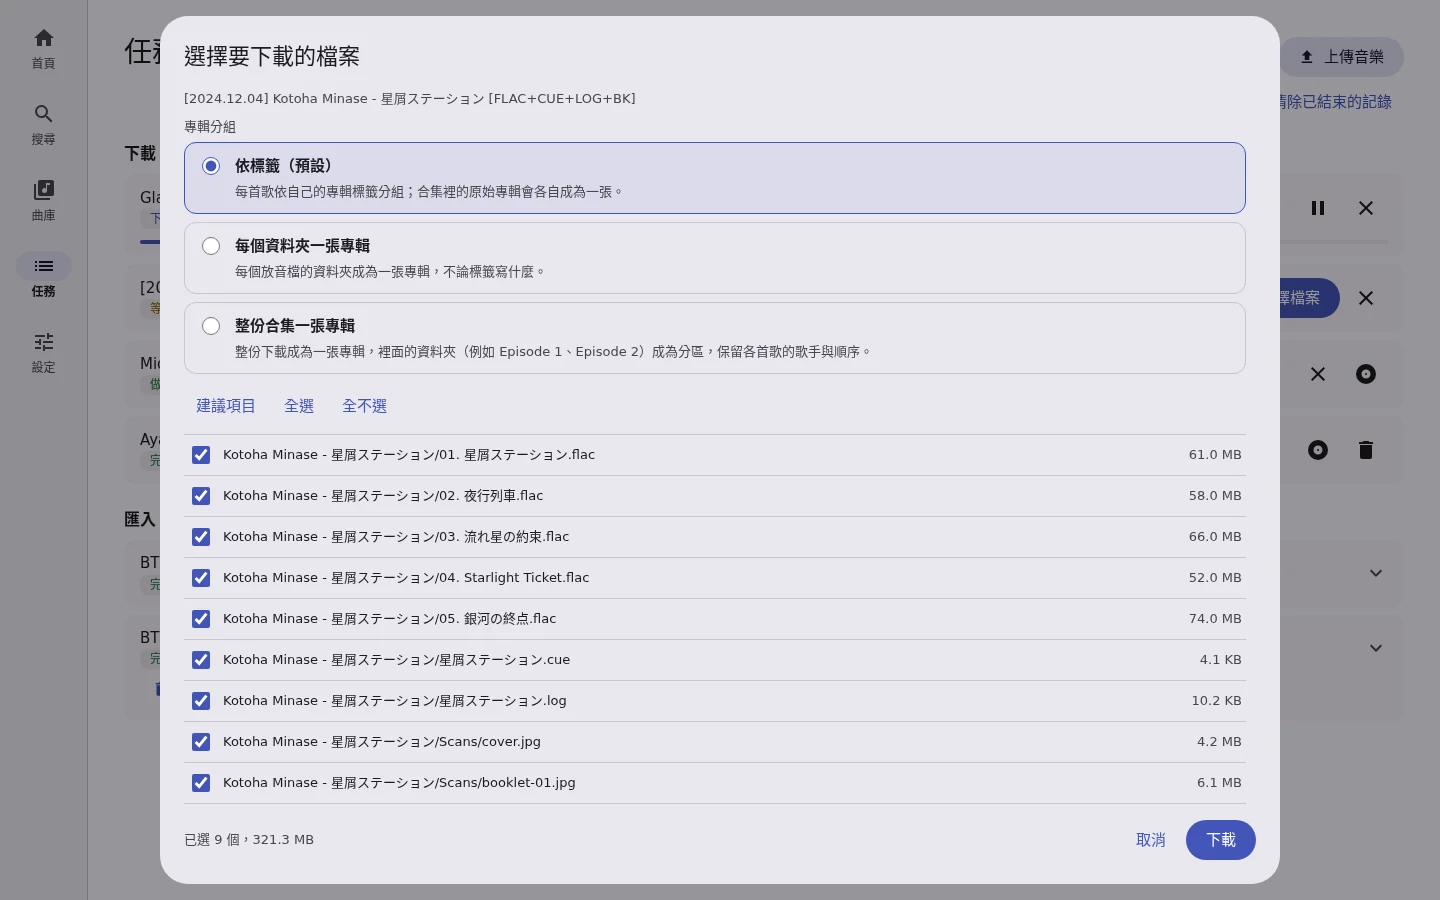
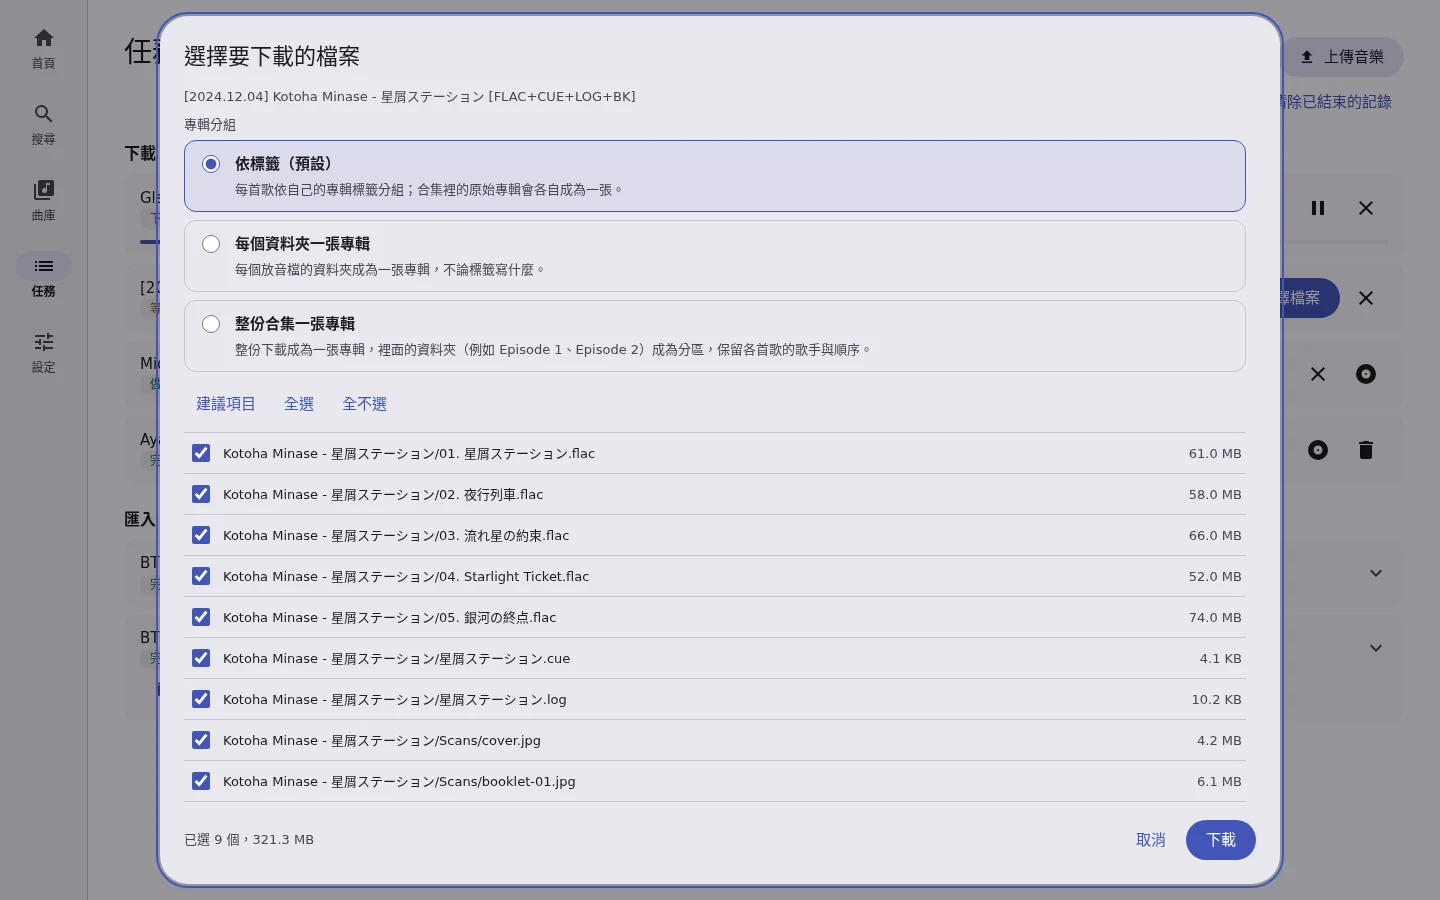
README: a Traditional Chinese version, and screenshots of today's pages
README.zh-TW.md says the same as README.md in Traditional Chinese, the
interface's language; each links to the other at its top.

The screenshots are taken again from the made-up demo library on the
current pages: the album page now shows its work (with the opening
theme marked on its song) and its Bangumi entry and collection, which
are made up too, like the rest of the demo.

diff --git a/README.zh-TW.md b/README.zh-TW.md
@@ -1,0 +1,118 @@
+[English](README.md) | **繁體中文**
+
+# Kanade（奏）
+
+私人、自架的音樂庫：透過 BitTorrent 找到資源、選好檔案、下載、整理，存進你自己的 Google Drive，再從電腦或手機的瀏覽器播放（Android App 之後才做）。介面是繁體中文。
+
+![首頁：繼續播放、最近播放、未聽完的廣播劇](docs/images/home.webp)
+
+## 功能
+
+- **取得音樂**：透過 aria2 下載磁力連結、`.torrent` 檔與 RSS 訂閱（可設規則、自動下載），也可以直接下載音檔或 zip 的 HTTP/HTTPS 連結。種子的檔案由你挑選；下載比伺服器的暫存空間大時分批進行，每批匯入並清掉後才下載下一批。做種依分享率或時間停止。
+- **匯入與整理**：讀取標籤（並判斷文字編碼），依 CUE 切割整軌映像、把其他無損格式轉成 FLAC（FFmpeg），CUE 與 log 檔跟著專輯保存，標籤沒寫專輯時以資料夾為一張專輯；整份下載也可以變成一張專輯，每個資料夾一個分區。另外有 MusicBrainz 查詢、貼上 VGMdb 頁面讀取資料、單張或多張專輯一起編輯、分類、關聯專輯所屬的作品（動畫、遊戲、書籍，以 [Bangumi](https://bgm.tv) 的資料為準，並標註每首歌的用途：片頭曲、片尾曲、插曲…）、專輯自己的 Bangumi 條目（連結 Bangumi 帳號後，可以在專輯頁管理你的收藏：狀態、評分、標籤、吐槽），以及每一筆修改都能撤回的修改紀錄。
+- **儲存**：每個檔案都存進你自己的 Google Drive，上傳後以 SHA-256 核對；丟進 Drive 收件匣資料夾的檔案會自動匯入。伺服器只保留播放快取，小 VPS 就夠用。
+- **播放**：播放佇列、隨機、重複、全曲庫隨機或自動接續播放、廣播劇從上次停下的地方繼續、同步歌詞（來自檔案、LRC，或從 LRCLIB 找）、書籤、睡眠定時、鎖定畫面控制，以及把正在聽的歌顯示成你的 Discord 狀態（「正在聽 Kanade」）：連結 Discord 帳號後由伺服器回報，電腦和手機都不用另外安裝程式。
+- **收藏**：我的最愛、歌單、依規則挑歌的智慧歌單（分類、歌手、播放次數、上次播放…）。
+- **我的聆聽**：每天實際聽了多久的年度熱圖、任意期間的排行與趨勢，可匯出 CSV 或 JSON。
+- **登入**：密碼或 passkey；單一個 Go 執行檔，以 1.5 GB 記憶體的 VPS 為準設計。
+
+| | |
+|---|---|
+| ![專輯頁：音質、分類、作品與 Bangumi 收藏](docs/images/album.webp) | ![正在播放與同步歌詞（深色主題）](docs/images/now-playing.webp) |
+| ![我的聆聽：熱圖與期間統計](docs/images/stats.webp) | ![智慧歌單與預覽](docs/images/smart-playlist.webp) |
+| ![任務：下載、做種與匯入](docs/images/tasks.webp) | ![選擇要下載的檔案](docs/images/downloads.webp) |
+
+![手機：首頁、正在播放、專輯（玫瑰色深色主題）](docs/images/phone.webp)
+
+截圖用的是虛構的示範曲庫：專輯、歌手、歌詞、封面和作品都是為了截圖編出來的。
+
+## 安裝
+
+在 Linux 伺服器（amd64 或 arm64）上以 root 執行：
+
+```bash
+curl -fsSL https://raw.githubusercontent.com/HHim8826/kanade/main/scripts/kanade.sh -o kanade.sh && sudo bash kanade.sh
+```
+
+連 GitHub 很慢的地方（中國大陸），在網址前面加上代理，例如 `https://ghproxy.net/https://raw.githubusercontent.com/…`；腳本下載其他檔案時會詢問要不要用同一個代理。
+
+腳本會：
+
+- 把適合這台機器的版本裝到 `/opt/kanade`（資料在 `/opt/kanade/data`）；
+- 以系統帳號 `kanade` 在 systemd、OpenRC 或 SysV init 下執行，並設定開機啟動。這些都沒有時（例如容器裡），就在背景執行，有 cron 時用 `@reboot` 開機啟動；
+- 經你同意後從系統套件安裝 aria2 與 FFmpeg。系統套件裡都沒有時（RHEL 系列、Amazon Linux），改用 Kanade 開發時用的靜態版本，放在 `/opt/kanade/tools`；FFmpeg 約 150 MB；
+- 建立一個隨機密碼的管理員帳號並顯示密碼。
+
+之後執行 `sudo kanade-manager` 會開啟同一個選單：
+
+| 指令 | |
+|---|---|
+| `kanade-manager install` / `update` / `uninstall` | 更新時會以 `SHA256SUMS` 核對下載的檔案、先備份資料庫，新版啟動不了就退回舊版；即使 Kanade 已是最新，也會把 `kanade-manager` 本身換成該版的腳本（同樣核對）。解除安裝會保留資料，除非你輸入 `DELETE`。 |
+| `kanade-manager status` / `start` / `stop` / `restart` / `log [-f]` | status 也會顯示是否開機啟動。 |
+| `kanade-manager autostart [on\|off]` | 是否開機啟動（依機器使用 systemd、OpenRC、SysV 或 cron）；不加參數時顯示目前設定並詢問。 |
+| `kanade-manager password` | 重設密碼（隨機或自訂），該帳號的所有登入都會結束。 |
+| `kanade-manager config` | 修改公開網址、監聽位址，以及前面的代理（Cloudflare，或同一台機器上的 Nginx、Caddy）：只相信這裡指定的代理所轉送的用戶端位址，登入節流依這個位址計算。 |
+| `kanade-manager backup` / `restore` | 備份放在 `data/backups/`；還原前會先備份目前的資料庫。連上 Drive 後，伺服器每天也會把資料庫複製到 Drive 的 `Kanade/backups`（保留最近 14 份）；要還原其中一份，下載到 `data/backups/` 再執行 `restore`。更新前自動做的備份保留最近 5 份。 |
+| `kanade-manager tools` | 之後再安裝 aria2 與 FFmpeg（安裝時跳過，或系統套件裡沒有時）。 |
+
+不詢問的安裝（自動化用）：`sudo env KANADE_YES=1 KANADE_PUBLIC_URL=https://music.example.com KANADE_TRUSTED_PROXY=cloudflare bash kanade.sh install`；其他設定（例如 `KANADE_INIT=systemd|openrc|sysv|none`）列在 `scripts/kanade.sh` 的開頭。
+
+**連線 Google Drive。** Kanade 用你自己在 Google Cloud 建立的 OAuth 用戶端存取 Drive；設定頁會一步步帶你建立，並顯示要登記的重新導向 URI。Google 只會把瀏覽器導回 https 網域（或 localhost）：網站在有 https 的網域後面（Cloudflare Tunnel、Caddy、Nginx）時會自動回到 Kanade；用 IP 位址連線時，Kanade 會登記 `http://localhost/oauth/google/callback`，你再把瀏覽器最後停住的網址貼回來。passkey 一定要 https，用純 http 時密碼也是明文傳送。
+
+**登入。** 同一個位址 15 分鐘內最多輸錯 5 次密碼（IPv6 整個 /64 算一個位址），所有位址合計最多 30 次。達到合計上限表示有人在猜密碼：在上限解除前，只有曾經在這裡登入過的瀏覽器能用密碼登入；passkey 照常可用，已登入的頁面也仍可改密碼或新增 passkey。位址依 `kanade-manager config` 設定的代理判斷。
+
+**Discord 狀態。** 在 [Discord Developer Portal](https://discord.com/developers/applications) 建立應用程式，名稱填 Kanade（狀態會顯示「正在聽 Kanade」），為它開啟 Discord Social SDK（填 Getting Started 表單即可，不用下載任何東西），並在 OAuth2 → Redirects 加入 `https://<你的網址>/oauth/discord/callback`。把它的 Client ID 與 Client Secret 填到 Kanade 的設定頁，再連結你的 Discord 帳號。播放時伺服器會更新你的狀態：歌名，以及你選擇顯示的歌手、專輯、進度和專輯封面。封面是專輯綁定的 Bangumi 條目圖片；選擇的話，也可以用 Kanade 自己的封面，透過一個專為 Discord 產生的公開網址提供。暫停最多顯示 10 分鐘，沒有播放時 Kanade 不會連上 Discord。Discord 只為 Social SDK 公開說明這個狀態權限，所以這個做法之後可能因 Discord 改動而失效。
+
+**Bangumi。** 在 [bgm.tv/dev/app](https://bgm.tv/dev/app) 建立應用程式，回調地址填 `https://<你的網址>/oauth/bangumi/callback`，把 App ID 與 App Secret 填到設定頁，再連結你的 Bangumi 帳號。只有在專輯的收藏對話框按下儲存，或綁定條目時勾選「綁定時加入我的 Bangumi 收藏」，Kanade 才會改動你的 Bangumi 收藏；播放和瀏覽都不會。
+
+每個服務的回調網址都不同（`/oauth/google/…`、`/oauth/discord/…`、`/oauth/bangumi/…`），設定頁會分別顯示，可以直接複製。
+
+## 目錄
+
+| 路徑 | 內容 |
+|---|---|
+| `server/` | Go 服務（`kanade`）：API、匯入、Drive 儲存、aria2 下載、串流快取、聆聽統計、內嵌的網頁端 |
+| `server/internal/web/static/` | 瀏覽器端（Preact + htm，不需要建置），網址在 `/app/` |
+| `server/scripts/upload-folder.py` | 命令列上傳工具，也是用戶端上傳方式的參考 |
+| `scripts/kanade.sh` | 安裝與管理腳本（`kanade-manager`） |
+| `.github/workflows/ci.yml` | 推送到 main 與 pull request 的 CI：gofmt、vet、開 race detector 的測試（含 aria2 與 FFmpeg）、網頁端檢查（`server/scripts/check-web.mjs`）、shellcheck 與 actionlint |
+| `.github/workflows/release.yml` | 每個版本標籤先跑 CI，再建置並發佈 release |
+| `docs/` | 計畫、決策（D1–D11，優先於計畫）、含 API 與實作紀錄的後端設計、P0 驗證結果、曲庫調查；`docs/images/` 是上面的截圖 |
+
+## 建置與執行
+
+需要 Go 1.27 以上。純 Go（不用 cgo），可以交叉編譯成 linux/amd64 與 linux/arm64。
+
+```bash
+cd server
+go test ./...
+go build -o bin/kanade ./cmd/kanade
+
+export KANADE_DATA=/path/to/data          # 資料庫、設定、暫存、快取；以 0700 權限建立
+./bin/kanade config set public_url https://music.example.com
+./bin/kanade config set listen 127.0.0.1:8080
+printf '%s\n' 'a long password' | ./bin/kanade user add admin
+./bin/kanade serve
+```
+
+設定存在資料目錄的 `config.json`（`kanade config` 可以查看）；`serve` 的參數（`-listen`、`-public-url`、`-aria2`）只對這次執行覆蓋設定。網頁上改的設定（快取與暫存大小、下載限制、做種、Drive 同步）存在資料庫，立即生效。服務執行中也可以用 `kanade backup FILE` 複製資料庫。
+
+`serve` 依序在執行檔旁邊、`$KANADE_ARIA2`（或 `aria2` 設定）、執行檔或工作目錄所在原始碼目錄的 `tools/aria2/`，以及 `PATH` 尋找 `aria2c`；找不到時伺服器照常執行，只是不能下載。FFmpeg（`$KANADE_FFMPEG`、資料目錄旁的 `tools/ffmpeg/bin/` 或 `PATH`，旁邊要有 `ffprobe`）用來把無損格式轉成 FLAC，並依 CUE 切割整軌映像；沒有的話這些檔案會等著。
+
+## 發佈
+
+推送版本標籤後，GitHub Actions 會先跑 CI，再建置並發佈安裝腳本下載的 release（`kanade-linux-amd64.tar.gz`、`kanade-linux-arm64.tar.gz`、`kanade.sh`、涵蓋這三個檔案的 `SHA256SUMS`，以及 `VERSION`）：
+
+```bash
+git tag v0.1.0 && git push origin v0.1.0
+```
+
+標籤含連字號（`v0.2.0-rc1`）時發佈成 pre-release，`latest` 會略過它。手動執行 workflow 會建置同樣的檔案，但只當成 artifact，不發佈。被標記的 commit 必須通過 CI（包括 gofmt），否則不會發佈。
+
+## 授權
+
+[AGPL-3.0](LICENSE)。如果你提供修改過的 Kanade 給其他人使用，請一併提供它的原始碼。內附的 Preact 與 htm 維持各自的授權（`server/internal/web/static/vendor/`）。
+
+## 設計說明
+
+從 `docs/decisions.md` 與 `docs/backend-design.md` 開始看。簡單來說：直接透過 REST API 存取 Drive（D1）；每個檔案上傳後都以 SHA-256 核對；因為每次向 Drive 請求約要 0.6 秒，播放時會在背景把整首歌下載到本機快取（D7）；一切以 1.5 GB 記憶體的 VPS 為準。聆聽統計計算實際聽到的時間，切成 15 分鐘的區段，所以任何時區的「一天」都加得起來。

diff --git a/README.md b/README.md
@@ -1,3 +1,5 @@
+**English** | [繁體中文](README.zh-TW.md)
+
 # Kanade（奏）
 
 A private, self-hosted music library: find releases through BitTorrent, choose the files, download, tidy, store them in your own Google Drive, and play them from a browser on a computer or a phone (an Android app comes later). The interface is in Traditional Chinese.
@@ -16,13 +18,13 @@ A private, self-hosted music library: find releases through BitTorrent, choose t
 
 | | |
 |---|---|
-| ![An album, with quality and categories](docs/images/album.webp) | ![Now playing, with synced lyrics (dark theme)](docs/images/now-playing.webp) |
+| ![An album: quality, categories, its work and Bangumi collection](docs/images/album.webp) | ![Now playing, with synced lyrics (dark theme)](docs/images/now-playing.webp) |
 | ![My listening: heat map and periods](docs/images/stats.webp) | ![A smart playlist and its preview](docs/images/smart-playlist.webp) |
 | ![Tasks: downloads, seeding and imports](docs/images/tasks.webp) | ![Choosing the files of a download](docs/images/downloads.webp) |
 
 ![On a phone: home, now playing, an album (rose dark theme)](docs/images/phone.webp)
 
-The screenshots use a made-up demo library: the albums, artists, lyrics and covers were invented for it.
+The screenshots use a made-up demo library: the albums, artists, lyrics, covers and works were invented for it.
 
 ## Install
 
